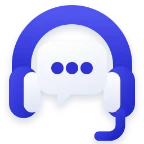
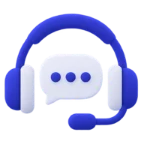
Mutaxassis yordami ikonkasini asl rasm bilan almashtirish
Ikonka arxiv bilan fayl ko'rinishida keldi — o'zim chizgan taxminiy
variant o'rniga asl 3D rasm qo'yildi.

- icons/src/mutaxassis-3d.webp endi asl rasmdan: shaffof chekkalari
  kesilib, kvadratga keltirilgan. Asl rasm cho'ziq (297x264) edi,
  kartochkadagi `background-size: 48px 48px` uni cho'zib yuborardi.
- Vaqtinchalik tayanch olib tashlandi: icons/src/mutaxassis-3d.svg
  (qo'lda yozilgan taxminiy ikonka) va tools/svg-icon.mjs, shu bilan
  birga package.json dagi icons:svg va check bandlari. Endi bu ikonka
  ham qolgan hammasi kabi oddiy yo'ldan o'tadi: icons/src/*.webp ->
  npm run icons -> icons/*.webp (144 px = 48 px x3).

Claude-Session: https://claude.ai/code/session_013YY2HjPmapjsnxB9N1S87s

diff --git a/sw.js b/sw.js
@@ -8,7 +8,7 @@
  *     qat'i nazar saqlanadigan keshda qoladi.
  *   - Valyuta kursi kabi API so'rovlari keshlanmaydi.
  */
-const VERSION = 'c8cc7675200b';
+const VERSION = '879cd7b4f269';
 const CACHE = 'xarid-' + VERSION;
 /* Logotiplar keshi ilova versiyasiga bog'lanmaydi: yangilanish chiqqanda
    ular qaytadan yuklanmaydi. */

diff --git a/README.md b/README.md
@@ -55,7 +55,6 @@ npm test                 # smoke test + 7 ta qo'llanmaning tekshiruvi
 npm run links            # tashqi havolalarni tekshirish (haftalik CI ham qiladi)
 npm run logos            # logos/src/*.png -> logos/*.webp qayta yasash
 npm run icons            # icons/src/*.webp -> icons/*.webp (ekran o'lchamiga moslash)
-npm run icons:svg        # icons/src/*.svg -> icons/src/*.webp (qo'lda yozilgan ikonkalar)
 npm run mockups          # qadamlardagi telefon maketlarini bir me'yorga keltirish
 npm run store-logos      # do'kon logotiplari (--from DIR bilan tayyor rasmlardan)
 npm run brand            # icons/src/intro/*.png -> logotip va ilova ikonkalari
@@ -266,11 +265,10 @@ brend, yorug'lik (`0 14px 32px -16px rgba(17,21,132,.52)`), ramka
 
 **Mutaxassis yordami kartochkasi.** Bosh sahifa va Bojxona ekranidagi
 kirish kartochkasi brend gradienti ustida turadi, ikonkasi esa oq 64 px
-plita ichida 48 px da chiziladi: `icons/mutaxassis-3d.webp`. Manbasi —
-`icons/src/mutaxassis-3d.svg` (qo'lda yozilgan SVG). `npm run icons:svg`
-uni 512 px ga chizib `icons/src/mutaxassis-3d.webp` ga saqlaydi, so'ng
-`npm run icons` 144 px ga (48 px x3) keltiradi. `npm run check` ikkalasini
-ham tekshiradi, ya'ni SVG o'zgarib WebP qayta chizilmasa CI yiqiladi.
+plita ichida 48 px da chiziladi: `icons/mutaxassis-3d.webp` (144 px =
+48 px x3). Asl rasm cho'ziq (297x264) edi — `background-size: 48px 48px`
+uni cho'zib yuborardi, shuning uchun manba shaffof chekka bilan kvadratga
+keltirilgan.
 
 **Qolgan ish.** `svc-*` (11 ta) tekis uslubda, lekin ular Xizmatlar
 bo'limining ichki kartochkalarida turadi — ya'ni P3 da chizilgan
